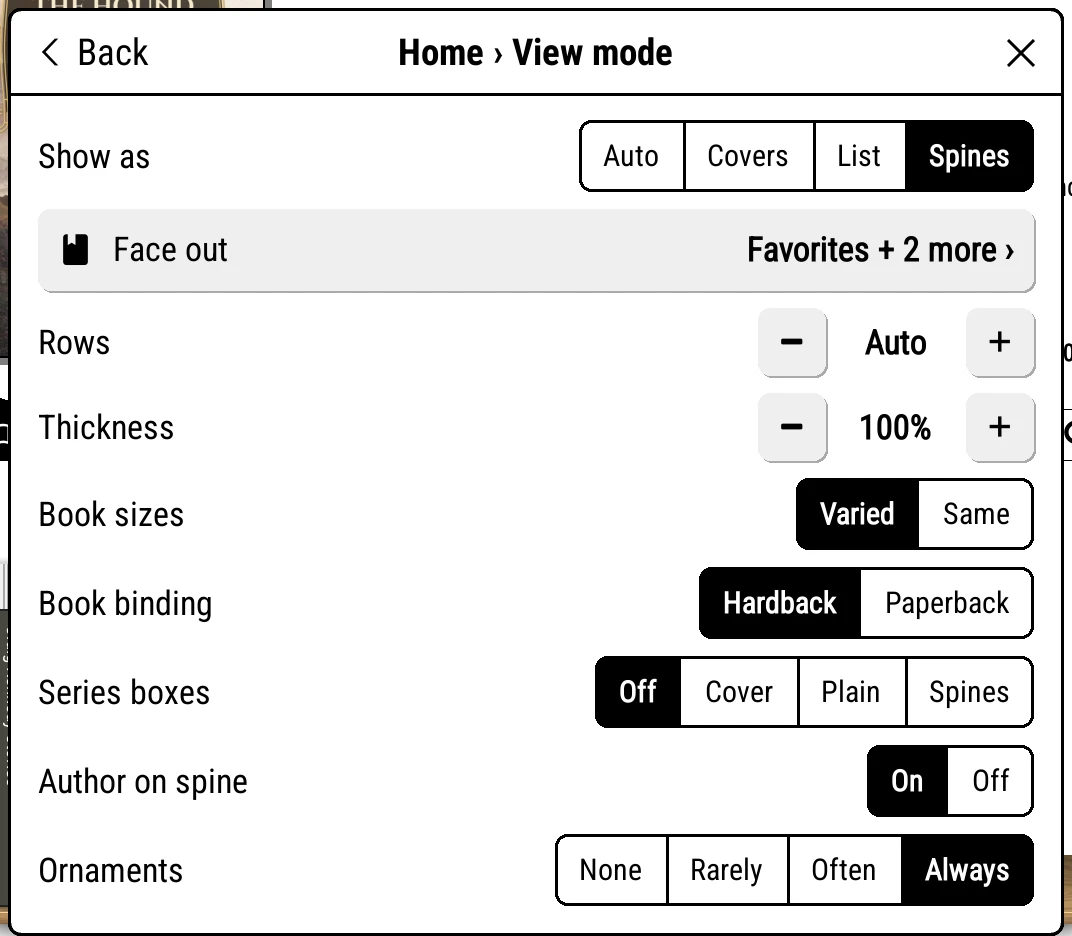
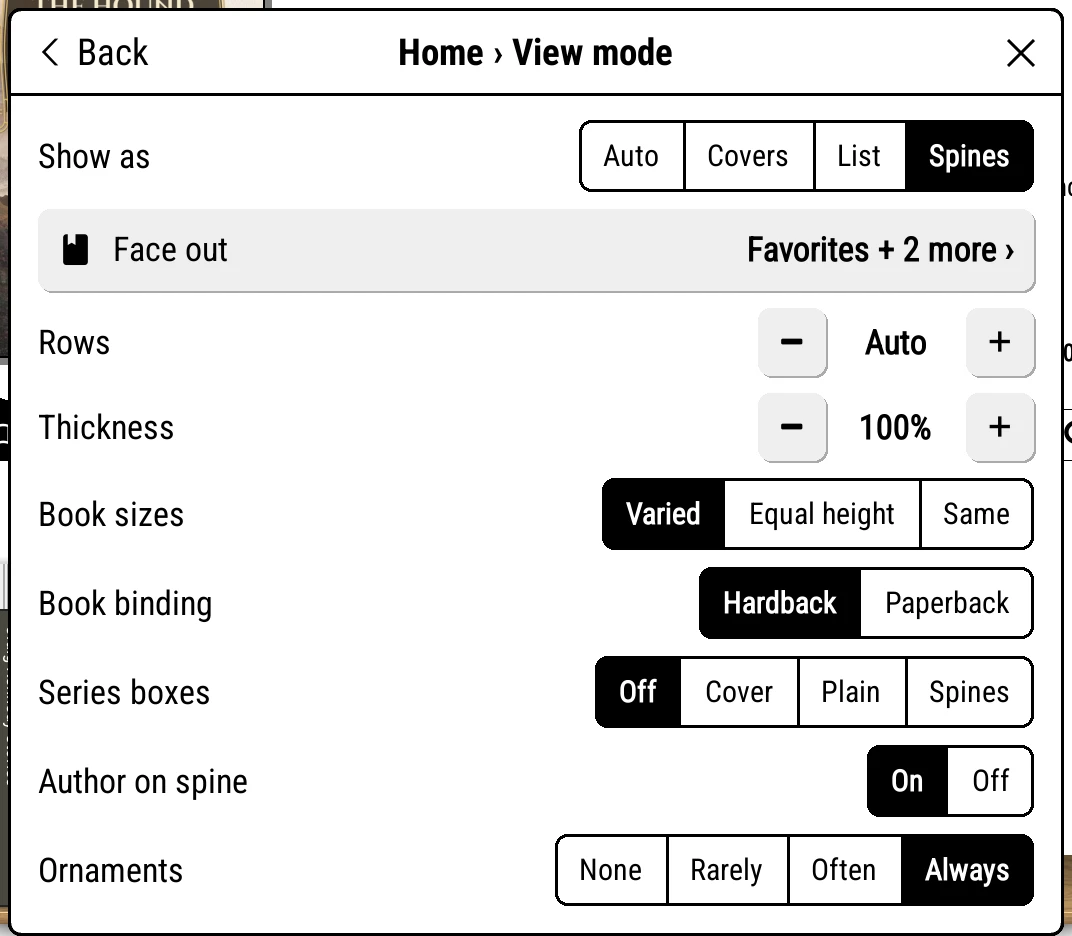
6.4.1: Book sizes > Equal height
Claude-Session: https://claude.ai/code/session_01JgJkg2kpmXwo4V6m4aKBga

Changed region(s): [[0.5541, 0.4957, 0.8619, 0.5887]]

diff --git a/docs/use/shelf-styles.md b/docs/use/shelf-styles.md
@@ -122,7 +122,7 @@ Tap a spine and the book lifts off the shelf into the top panel. Tap it again to
 | **Face out** | Which books turn to show their cover. See below. |
 | **Rows** | How many shelves fit on the screen. **Auto** fits the space. |
 | **Thickness** | Fatter or thinner spines across the board, 60% to 200% (100% to begin with). |
-| **Book sizes** | **Varied** takes each book's height from its cover and thickness from its page count. **Same** stands every book at one size. |
+| **Book sizes** | **Varied** takes each book's height from its cover and thickness from its page count. **Equal height** stands every book at one height, keeping its own width and thickness, so a landscape book facing out shows its whole cover. **Same** stands every book at one size. |
 | **Book binding** | **Hardback** or **Paperback**: thin flush covers, softer shading and lighter page edges. A series can have its own from its long-press menu. |
 | **Series boxes** | Stands each series as an open slipcase holding its books, with a read count: **Cover** puts the first cover on the front, **Plain** just the series name, **Spines** the books spine-out with the first cover across them. Tap one to open the series. |
 | **Author on spine** | **On** prints the author under the title. |

diff --git a/docs/reference/menus.md b/docs/reference/menus.md
@@ -818,7 +818,7 @@ On a grouped shelf, the first level is **Order the groups by** and cannot be rem
 :   60% to 200%, in steps of 10%. Default: 100%.
 
 **Book sizes** (Spines)
-:   **Varied**: height from the cover's shape and thickness from the page count. **Same**: every book, face-out ones too, at one size. Default: Varied.
+:   **Varied**: height from the cover's shape and thickness from the page count. **Equal height**: every book at one height, with its own cover shape and thickness, so a face-out is as wide as its cover. **Same**: every book, face-out ones too, at one size. Default: Varied.
 
 **Book binding** (Spines)
 :   **Hardback**, the classic look, or **Paperback**, with thin flush covers, softer shading and lighter page edges. A series can have its own from its long-press menu. Default: Hardback.

diff --git a/docs/reference/whats-new.md b/docs/reference/whats-new.md
@@ -4,9 +4,14 @@ description: What's new in recent versions of Bookshelf, with links to where eac
 
 # What's new
 
-<span class="tag">These pages describe Bookshelf 6.4.0</span>
+<span class="tag">These pages describe Bookshelf 6.4.1</span>
 
 Full release notes for every version are on [GitHub Releases](https://github.com/AndyHazz/bookshelf.koplugin/releases), and in the app under **Bookshelf > Updates > View changelog**.
+
+## 6.4.1
+
+**Equal height**
+:   A third **Book sizes** choice for spine shelves: every book stands at the same height and keeps its own width, so a landscape book facing out shows its whole cover. [More](../use/shelf-styles.md#spines)
 
 ## 6.4
 
